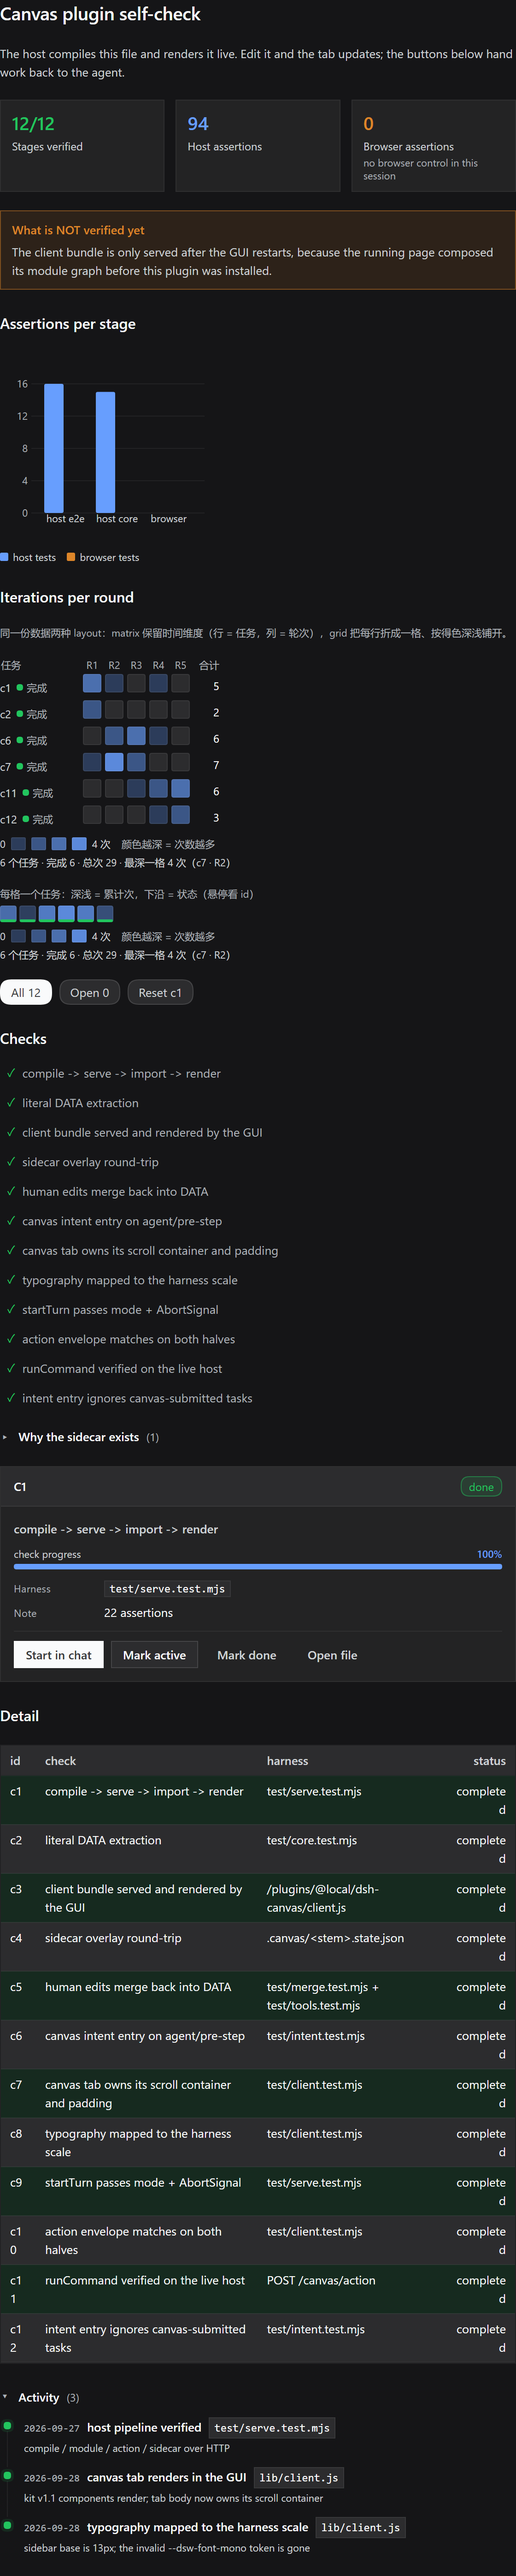
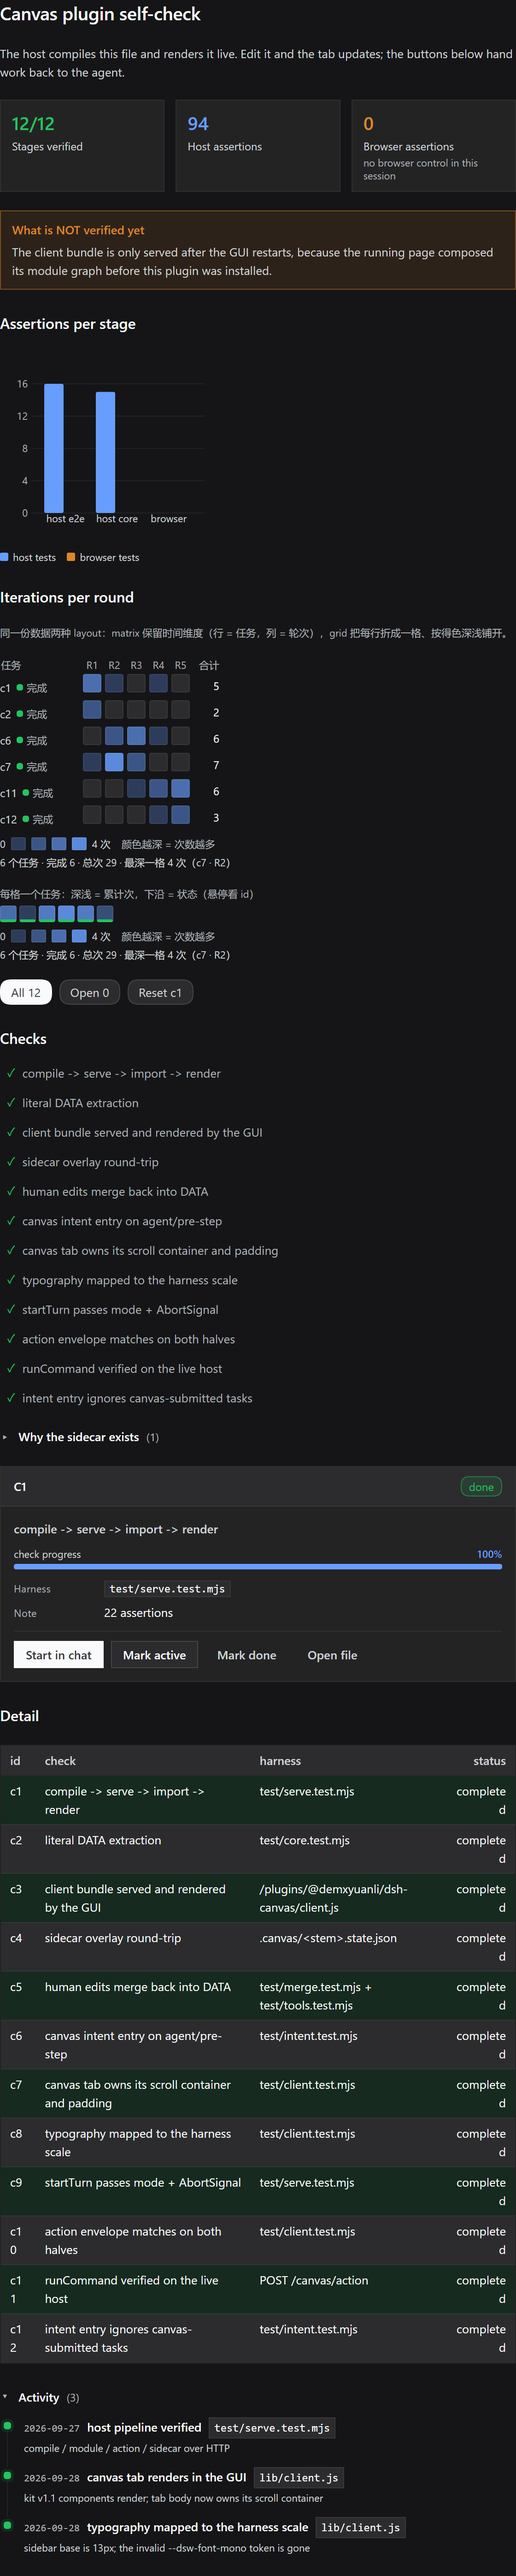
feat(dist): 改成可发布形态 —— @demxyuanli/dsh-canvas（发到 npm 即"上架"）
实证结论：DSH 没有自建插件市场。289 个官方包里没有任何发布命令；"市场"就是 **npm 注册表** +
侧栏「插件」面板（spec 可为注册表包名 / git / tarball / 本地路径；host 先 pnpm view 预览再
pnpm add）。所以上架 = 发布到 npm。

- 改名 @local/dsh-canvas → @demxyuanli/dsh-canvas（30 处：包名 / 客户端模块 id / tab type id /
  画布标题 / 文档 / patch）。@local 是宿主的本地占位作用域，发不出去；裸名 dsh-canvas 已被占用
  （0.0.1），dsh-plugin-canvas 亦被占用（0.1.0），@demxyuanli/dsh-canvas 可用
- package.json：去掉 private，补 license / repository / homepage / bugs / keywords / author /
  publishConfig(access=public)
- 新增 LICENSE（MIT）；README 增「安装」节（面板 spec + 手工 pnpm 两条路径 + 重启说明）
- 本机 profile 迁移（不在仓库内）：依赖键 / dsh.profile.bundles / cordis.patch.yml 的 name 同步
  改名并 pnpm 重装链接（lock 已更新，旧 @local 链接已删）。已验证：从 profile 目录能解析到
  D:\source\repos\dsh-canvas\index.js，旧名 MODULE_NOT_FOUND
- 看板 r30：新增 R-04「发布到 npm」in_progress（blocker = 需要你的 npm 登录），nextAction 指向它；
  a29 记录本次改动；6 张截图重出（标题里含包名）
- 校验：9 个测试文件全绿；6 张画布编译 0 诊断；npm pack / publish --dry-run 均为 28 文件、
  99.1 kB、public、指向 registry.npmjs.org

未闭环：npm publish 需要你自己的 npm 账号（本机 ENEEDAUTH）。

diff --git a/board.canvas.tsx b/board.canvas.tsx
@@ -1,5 +1,5 @@
 /** @canvas
- * title: @local/dsh-canvas 项目看板
+ * title: @demxyuanli/dsh-canvas 项目看板
  * description: 发布收口看板：真实环境验收 + 剩余缺口；进度与风险从 DATA 现算
  * icon: board
  */
@@ -27,9 +27,9 @@ type Task = {
 };
 
 export const DATA = {
-  goal: "把 @local/dsh-canvas 推到可发布：真实环境验收 + 剩余缺口收口",
+  goal: "把 @demxyuanli/dsh-canvas 发布到 npm，让别人能在侧栏「插件」面板里按 spec 装上",
   asOf: "2026-09-29",
-  revision: "r29",
+  revision: "r30",
   wipLimit: 2,
   staleDays: 7,
   lanes: ["verify", "host", "docs", "release"],
@@ -50,8 +50,7 @@ export const DATA = {
     { id: "D5", at: "2026-09-28", chose: "startTurn 用 mode=queue + AbortSignal", rejected: ["mode=steer", "省略 signal"], why: "契约必填 signal；队列语义不抢占当前轮", ref: "DESIGN.md §27" },
   ],
   // 全局唯一的下一个动作。每任务的 next 是局部视角，两者不互相替代。
-  // 当前窗口内没有待办：所有条目都已关闭。null 是明确表态，不是「字段没写」。
-  nextAction: null,
+  nextAction: { taskId: "R-04", action: "你 npm login 后执行 npm publish --access public（包已就绪：元数据 / LICENSE / README 安装节 / profile 迁移都已完成）", why: "发布必须用你的账号 —— 本机 npm 未登录（ENEEDAUTH），这一步我替不了" },
   tasks: [
     {
       id: "V-01", lane: "verify", title: "重启后目视三张画布",
@@ -61,7 +60,7 @@ export const DATA = {
       goal: "确认套件在真实页面里渲染正确（含滚动、边距与排版修复）",
       next: "",
       acceptance: "三张画布都渲染；控制台无 slot entry crashed",
-      evidence: "人眼：Desktop 打开 board.canvas.tsx 渲染为画布；进程 code cache 含 dsh-app://app/plugins/@local/dsh-canvas/client.js", write: "lib/client.js",
+      evidence: "人眼：Desktop 打开 board.canvas.tsx 渲染为画布；进程 code cache 含 dsh-app://app/plugins/@demxyuanli/dsh-canvas/client.js", write: "lib/client.js",
       ref: "DESIGN.md §25 §26", note: "host 与 client 两个半边都已在 Desktop 实测通过",
     },
     {
@@ -209,6 +208,18 @@ export const DATA = {
       ref: "troubleshooting.md", note: "用白名单的 command 精确匹配判定生效命令：新命令 ok、旧命令『not in commandWhitelist』",
     },
     {
+      id: "R-04", lane: "release", title: "发布到 npm（插件市场的实际形态）",
+      status: "in_progress", priority: "P0", owner: "agent",
+      progress: 80, estimate: 2, actual: 2,
+      startedAt: "2026-09-29", updatedAt: "2026-09-29", completedAt: "", blocker: "需要你的 npm 账号：本机 npm 未登录（ENEEDAUTH）",
+      goal: "别人能在 Harness 侧栏的「插件」面板里用 @demxyuanli/dsh-canvas 装到这个插件",
+      next: "npm login → npm publish --access public",
+      acceptance: "npm view @demxyuanli/dsh-canvas 能读到 0.2.0；装到干净 profile 后 canvas tab 出现",
+      evidence: "实证：DSH 无自建市场（289 个官方包里没有任何发布命令），市场 = npm 注册表 + pnpm view/add；本包已是 bundle 形态（dsh.bundle.patch + dsh.client）；npm pack 28 文件 301KB 且含 LICENSE",
+      write: "package.json", ref: "README.md 安装节",
+      note: "改名 @local→@demxyuanli 涉及 30 处 + profile 两个文件 + pnpm 重装链接；@local 是宿主本地占位作用域，发不出去",
+    },
+    {
       id: "D-03", lane: "docs", title: "preview 脚本按 basename 命名会互相覆盖",
       status: "completed", priority: "P3", owner: "agent",
       progress: 100, estimate: 1, actual: 1,
@@ -249,6 +260,7 @@ export const DATA = {
     { id: "a26", at: "2026-09-29", taskId: "R-03", title: "重启后两处改动验证通过", tone: "success", detail: "相对路径落到工作区；gate:templates 新命令精确匹配成功、旧命令 denied；无 session 的 policy 括注也实测到了", ref: "R-03" },
     { id: "a27", at: "2026-09-29", taskId: "D-03", title: "preview 命名不再互相覆盖", tone: "success", detail: "改成按仓库相对路径派生；同名画布实测产出不同文件与不同内容；顺带补齐本仓看板缺失的锚点自检、并支持 nextAction=null", ref: "docs/preview/render.mjs" },
     { id: "a28", at: "2026-09-29", title: "权威根阶梯：记住的工作区优先于 policy", tone: "success", detail: "实测 Desktop 的 policy 根是应用数据目录（profiles/desktop）；无 session 的写不再可能落进那里", ref: "index.js rootFor.describe" },
+    { id: "a29", at: "2026-09-29", taskId: "R-04", title: "包改成可发布形态（改名 + 元数据 + LICENSE）", tone: "success", detail: "实证 DSH 无自建市场，市场 = npm 注册表；@local 发不出去、裸名 dsh-canvas 已被占用 → @demxyuanli/dsh-canvas；profile 已迁移并重装链接", ref: "package.json + LICENSE", },
   ],
 } as const;
 
@@ -401,7 +413,7 @@ export default function TaskBoard() {
   return (
     <Stack gap={24}>
       <Stack gap={10}>
-        <H1>@local/dsh-canvas 项目看板</H1>
+        <H1>@demxyuanli/dsh-canvas 项目看板</H1>
         <Text tone="secondary">{DATA.goal}</Text>
         <Text size="caption" tone="tertiary">
           快照 {DATA.asOf} · 修订 {DATA.revision} · 快照前 7 天完成 {recentDone.length} 条 · WIP 上限 {DATA.wipLimit}

diff --git a/lib/client.js b/lib/client.js
@@ -7,7 +7,7 @@
  * survives those packages changing.
  */
 window.__ModuleLoader__.load({
-  id: "@local/dsh-canvas",
+  id: "@demxyuanli/dsh-canvas",
   factory(require) {
     const React = require("react");
     const h = React.createElement;
@@ -1437,11 +1437,11 @@ window.__ModuleLoader__.load({
     //==APPLY==
 
     return {
-      name: "@local/dsh-canvas",
+      name: "@demxyuanli/dsh-canvas",
       inject: ["slots", "sidebarRightTabs", "sidebarRight"],
       apply(ctx) {
         runtime.ctx = ctx;
-        const TYPE_ID = "@local/dsh-canvas/canvas";
+        const TYPE_ID = "@demxyuanli/dsh-canvas/canvas";
         ctx.effect(function () {
           return ctx.sidebarRightTabs.register({
             id: TYPE_ID,

diff --git a/examples/selfcheck.canvas.tsx b/examples/selfcheck.canvas.tsx
@@ -20,7 +20,7 @@ export const DATA = {
     { id: "c2", title: "literal DATA extraction", status: "completed",
       host: "test/core.test.mjs", note: "15 assertions" },
     { id: "c3", title: "client bundle served and rendered by the GUI", status: "completed",
-      host: "/plugins/@local/dsh-canvas/client.js", note: "renders in the running page" },
+      host: "/plugins/@demxyuanli/dsh-canvas/client.js", note: "renders in the running page" },
     { id: "c4", title: "sidecar overlay round-trip", status: "completed",
       host: ".canvas/<stem>.state.json", note: "verified on disk" },
     { id: "c5", title: "human edits merge back into DATA", status: "completed",

diff --git a/gates.canvas.tsx b/gates.canvas.tsx
@@ -1,5 +1,5 @@
 /** @canvas
- * title: @local/dsh-canvas 门禁
+ * title: @demxyuanli/dsh-canvas 门禁
  * description: 两条真实门禁：全量测试与模板语料；Run 走真实 ctx.shell 并回传 exitCode
  * icon: board
  */
@@ -115,7 +115,7 @@ export default function GateDashboard() {
   return (
     <Stack gap={24}>
       <Stack gap={8}>
-        <H1>@local/dsh-canvas 门禁</H1>
+        <H1>@demxyuanli/dsh-canvas 门禁</H1>
         <Text tone="secondary">
           基线：<Code>{DATA.baseline}</Code>
         </Text>

diff --git a/DESIGN.md b/DESIGN.md
@@ -74,7 +74,7 @@
 
 | 包 | 半边 | 职责 |
 |---|---|---|
-| `@local/dsh-canvas` | **host**（Node） | 编译（sucrase）、模块服务、画布发现、元数据与内联数据抽取、sidecar overlay 读写、动作桥、model 工具（`canvas_new/check/read`）、`Config` |
+| `@demxyuanli/dsh-canvas` | **host**（Node） | 编译（sucrase）、模块服务、画布发现、元数据与内联数据抽取、sidecar overlay 读写、动作桥、model 工具（`canvas_new/check/read`）、`Config` |
 | `@local/dsh-client-ui-canvas` | **browser** | `dsh/canvas` 套件实现、`sidebar.right` tab type、page kind、源码读取、动态 import 挂载、错误边界 |
 
 > 建议**同仓两个包**：host 半边需要 `sucrase` 依赖，client 半边必须零依赖，混在一起会把 sucrase 的打包面暴露给浏览器。但若只求最快落地，**单包 + `dsh.client` 声明**（`exports["./client"]`）也成立：P0 先单包，P1 再拆。
@@ -88,7 +88,7 @@
                      └───────────────┬────────────────┘
                                      │ 文件工具
                                      ▼
-┌──────────────────────── @local/dsh-canvas (host) ────────────────────────┐
+┌──────────────────────── @demxyuanli/dsh-canvas (host) ────────────────────────┐
 │  发现/watch → 读源码 → sucrase 编译 → 内容哈希 → 模块 URL                 │
 │  内联数据抽取（纯括号扫描，不执行代码，§11.3）                              │
 │  sidecar overlay 读写（.canvas/<name>.state.json）                        │
@@ -1139,7 +1139,7 @@ export default function StepObjRemaining() {
 - 插件在 `D:\source\repos\dsh-canvas\`（2026-09-28 从 `dogs/tools/dsh-canvas/` 迁出），已进 web profile：`dsh plugin --profile web add <dir>` 一次完成依赖安装 + bundle 选择（`link:`，改代码即生效）。宿主侧的 `link:` 与 `node_modules\@local\dsh-canvas` junction 已改指新目录。
 - host 半边**已在运行中的 GUI 上实测**：`/canvas/api`、`/compile`、`/module/<sha>.js`、`/source`、`/action`、overlay 全部 200 且行为正确。
 - 三套测试：`core 15/15`、`serve 13/13`（含「送出的模块能在 Node 里 import 并调用组件」）、`templates 4 compiled / 0 broken`。
-- 待办：**重启 GUI** 激活 client bundle（`/plugins/@local/dsh-canvas/client.js` 现为 404：运行中的页面在插件安装前已组合模块图）与工作区根解析修正。
+- 待办：**重启 GUI** 激活 client bundle（`/plugins/@demxyuanli/dsh-canvas/client.js` 现为 404：运行中的页面在插件安装前已组合模块图）与工作区根解析修正。
 
 ### 补充：DSH 工具 schema 的两条硬约束（实证）
 

diff --git a/README.md b/README.md
@@ -1,4 +1,4 @@
-# @local/dsh-canvas —— DeepSeek Harness 的项目看板插件
+# @demxyuanli/dsh-canvas —— DeepSeek Harness 的项目看板插件
 
 > **一个适配 DeepSeek Harness 的项目看板插件。** agent 把项目的审计结论与工程现状写成 `.canvas.tsx`，宿主（host 半边）实时编译并渲染到右栏，面板上的决定可以回流给 agent。
 
@@ -7,6 +7,24 @@
 - **harness 原生**：意图入口挂在 `agent/pre-step`；门禁执行走 `ctx.shell` 并按调用 Session 的 `ctx.sandboxPolicy` 约束；画布的「在会话里开始」走 `sessionController`；颜色与排版取自 harness 的 token，明暗主题自动跟随。
 - **对 agent 省 context**：`canvas_read` 只取切片（`dataPath` / `filter` / `ids` / `limit`），`canvas_state_merge` 把人的改动最小化写回源文件。
 - **可验收**：`npm test` → 8 个文件 / 94 断言；模板语料永远可编译。
+
+## 安装
+
+插件市场的实际形态就是 **npm 注册表**：在 Harness 侧栏的「插件」面板里粘贴下面这个 spec 即可 —— host 会先 `pnpm view` 读出它指向什么，再装进当前 profile：
+
+```
+@demxyuanli/dsh-canvas
+```
+
+等价的手工路径：
+
+```bash
+cd ~/.dsh/profiles/<profile>        # Windows: %USERPROFILE%\.dsh\profiles\<profile>
+pnpm add @demxyuanli/dsh-canvas
+# 再把 "@demxyuanli/dsh-canvas" 加进该 profile package.json 的 dsh.profile.bundles
+```
+
+装完**重启 Harness**：host 半边在启动时加载，浏览器半边按**包名**取 client bundle。开发本仓时用 `link:` 安装即可（`"@demxyuanli/dsh-canvas": "link:D:/source/repos/dsh-canvas"`），改完代码重启即生效。
 
 ## 是什么
 
@@ -74,7 +92,7 @@
 
 ~~~yaml
 - id: dsh-canvas
-  name: "@local/dsh-canvas"
+  name: "@demxyuanli/dsh-canvas"
   config:
     maxSourceBytes: 2097152
     commandWhitelist:
@@ -115,7 +133,7 @@
 | host (Node) | `index.js` + `host/` | 编译（sucrase）、内容寻址模块服务、画布发现与 watch、`DATA` 抽取、sidecar overlay 读写、动作桥、四个模型工具 |
 | browser | `client/` 源码 → 构建产物 `lib/client.js` | `dsh/canvas` 套件、`sidebar.right` tab type（认领 `*.canvas.tsx`）、源码读取、动态 `import()` 挂载、错误边界 |
 
-客户端模块注册 id **必须等于包名** `@local/dsh-canvas`；浏览器半边**只允许** `require("react")`，不得 require 任何 DSH client 包。
+客户端模块注册 id **必须等于包名** `@demxyuanli/dsh-canvas`；浏览器半边**只允许** `require("react")`，不得 require 任何 DSH client 包。
 
 关键链路：
 

diff --git a/INTERFACE.md b/INTERFACE.md
@@ -5,8 +5,8 @@
 
 ## 1. 包
 
-- 包名 `@local/dsh-canvas`，单包双半：`index.js`（host）+ `lib/client.js`（browser）。
-- 客户端模块注册 id **必须等于包名**：`@local/dsh-canvas`。
+- 包名 `@demxyuanli/dsh-canvas`，单包双半：`index.js`（host）+ `lib/client.js`（browser）。
+- 客户端模块注册 id **必须等于包名**：`@demxyuanli/dsh-canvas`。
 - client 半边只允许 `require("react")`（平台模块表已预置），**不得** require 任何 DSH client 包。
 
 ## 2. 注入到浏览器的全局（动态 import 之前同步设置）

diff --git a/skills/canvas/references/troubleshooting.md b/skills/canvas/references/troubleshooting.md
@@ -288,7 +288,7 @@ $ud = "$env:APPDATA\@deepseek-ai\dsh-desktop\Code Cache\js"
 Get-ChildItem $ud | Where-Object { [System.IO.File]::ReadAllText($_.FullName) -match "dsh-canvas" }
 ~~~
 
-命中的文件里能看到 `dsh-app://app/plugins/@local/dsh-canvas/client.js`，与官方客户端插件排列在同一批 URL 中——这就是"client 半边已经在跑"的直接证据。
+命中的文件里能看到 `dsh-app://app/plugins/@demxyuanli/dsh-canvas/client.js`，与官方客户端插件排列在同一批 URL 中——这就是"client 半边已经在跑"的直接证据。
 
 ---
 
